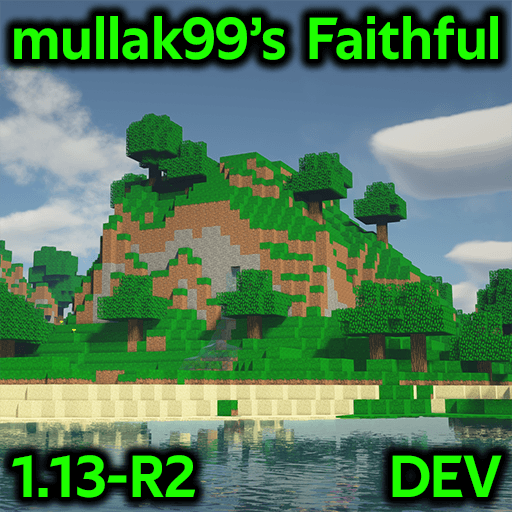
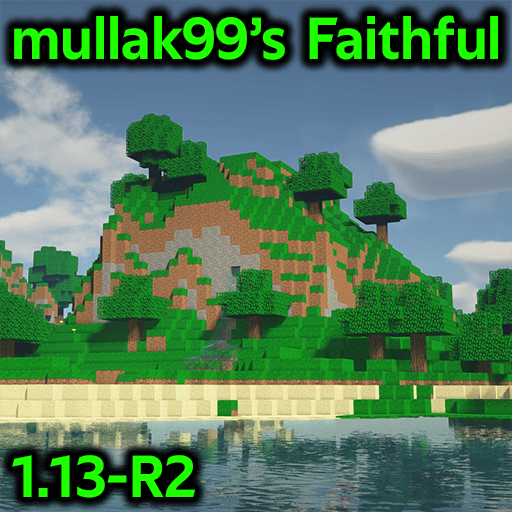
Version changes

Changed region(s): [[0.7188, 0.8438, 1.0, 1.0]]

diff --git a/README.md b/README.md
@@ -1,6 +1,6 @@
 # mullak99's Faithful 32x
 
-**Current Branch Version:** _MC1.13-R2_DEV211216-1_  
+**Current Branch Version:** _MC1.13-R2_  
 
 ## Official Links
 
